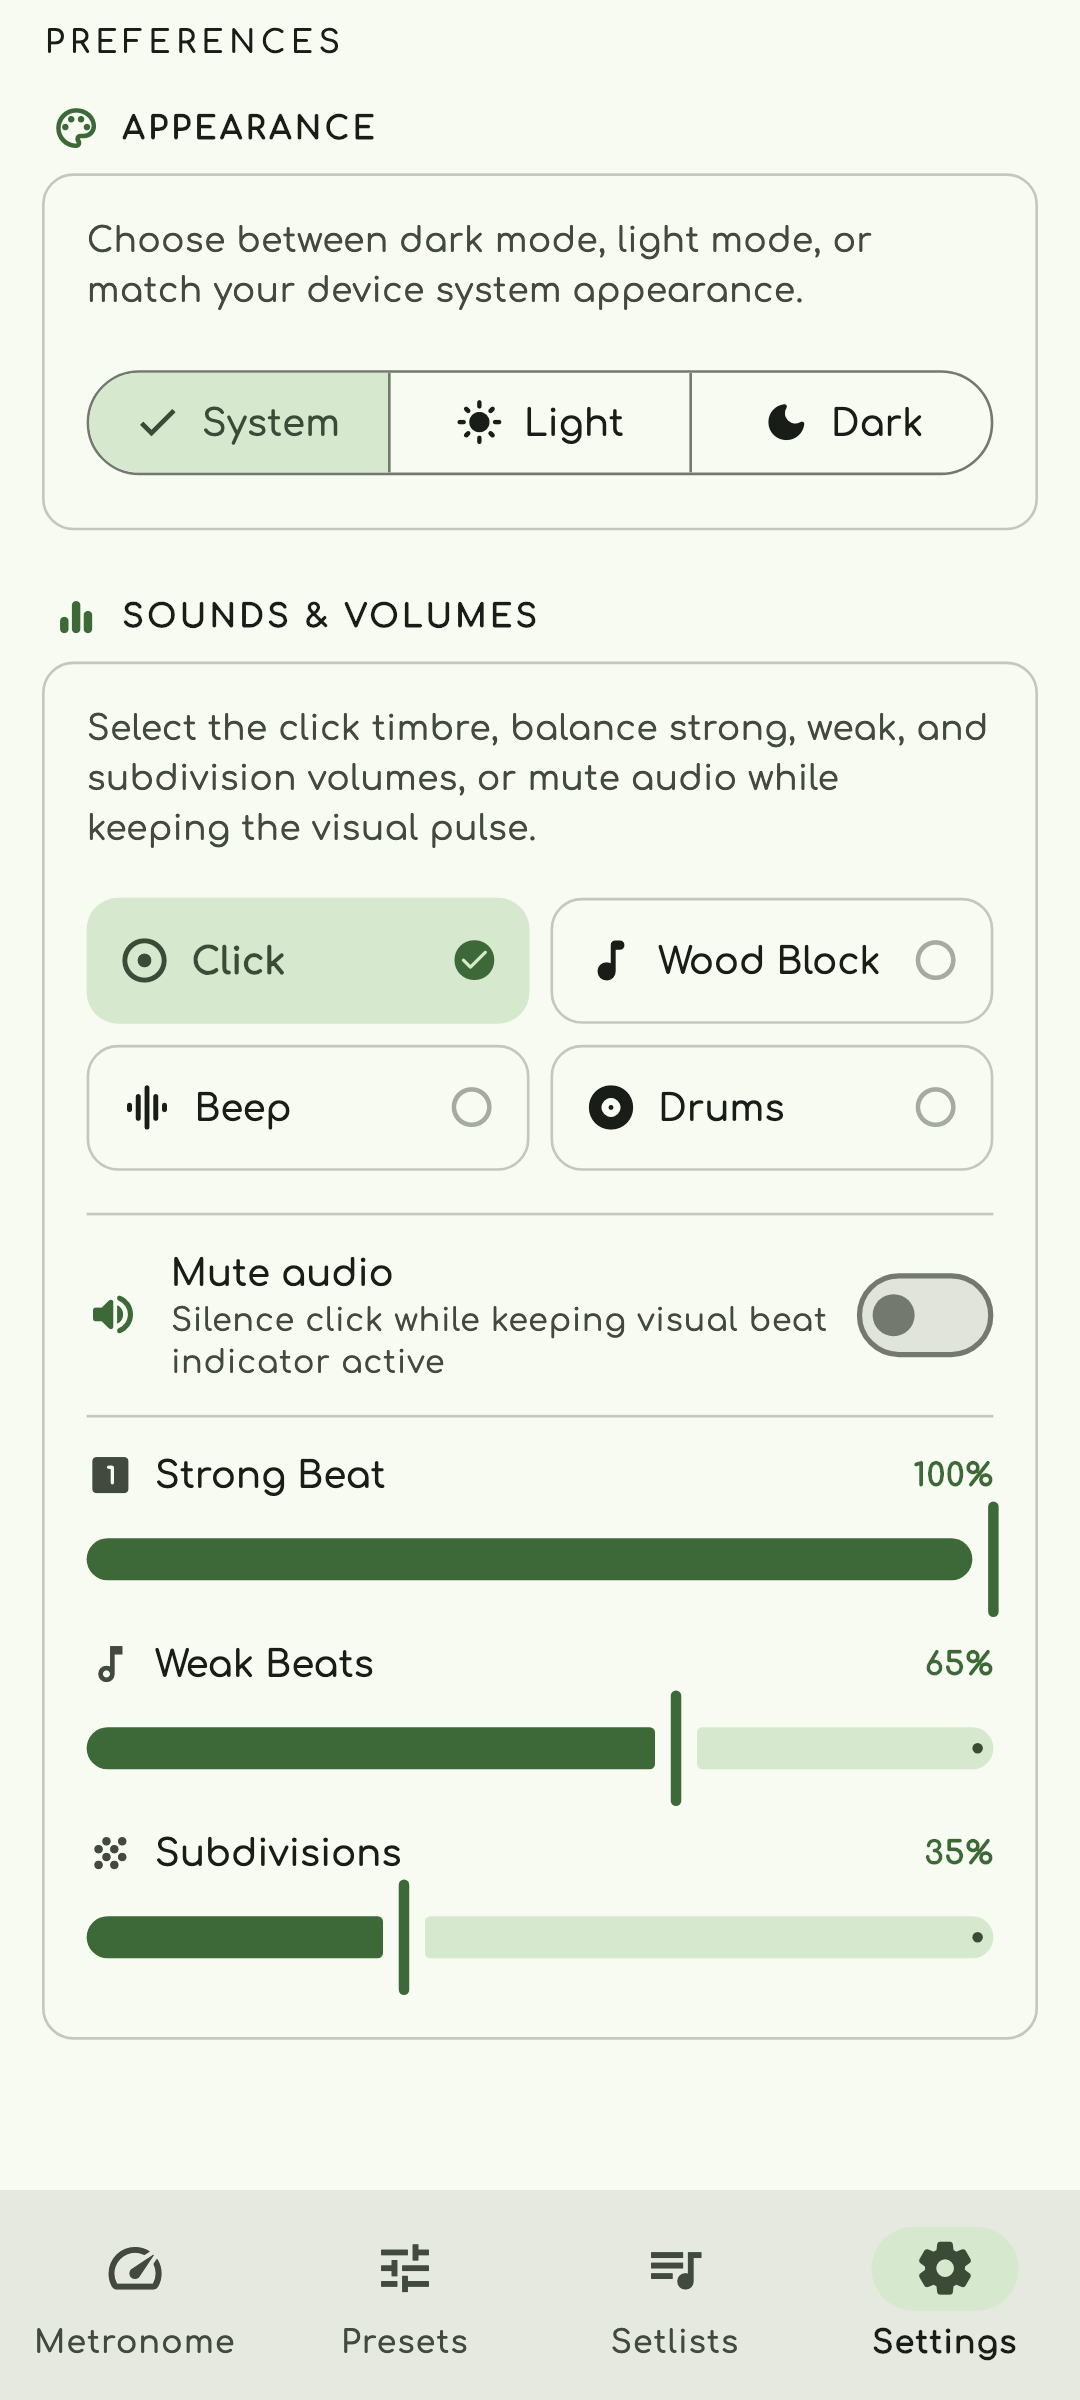
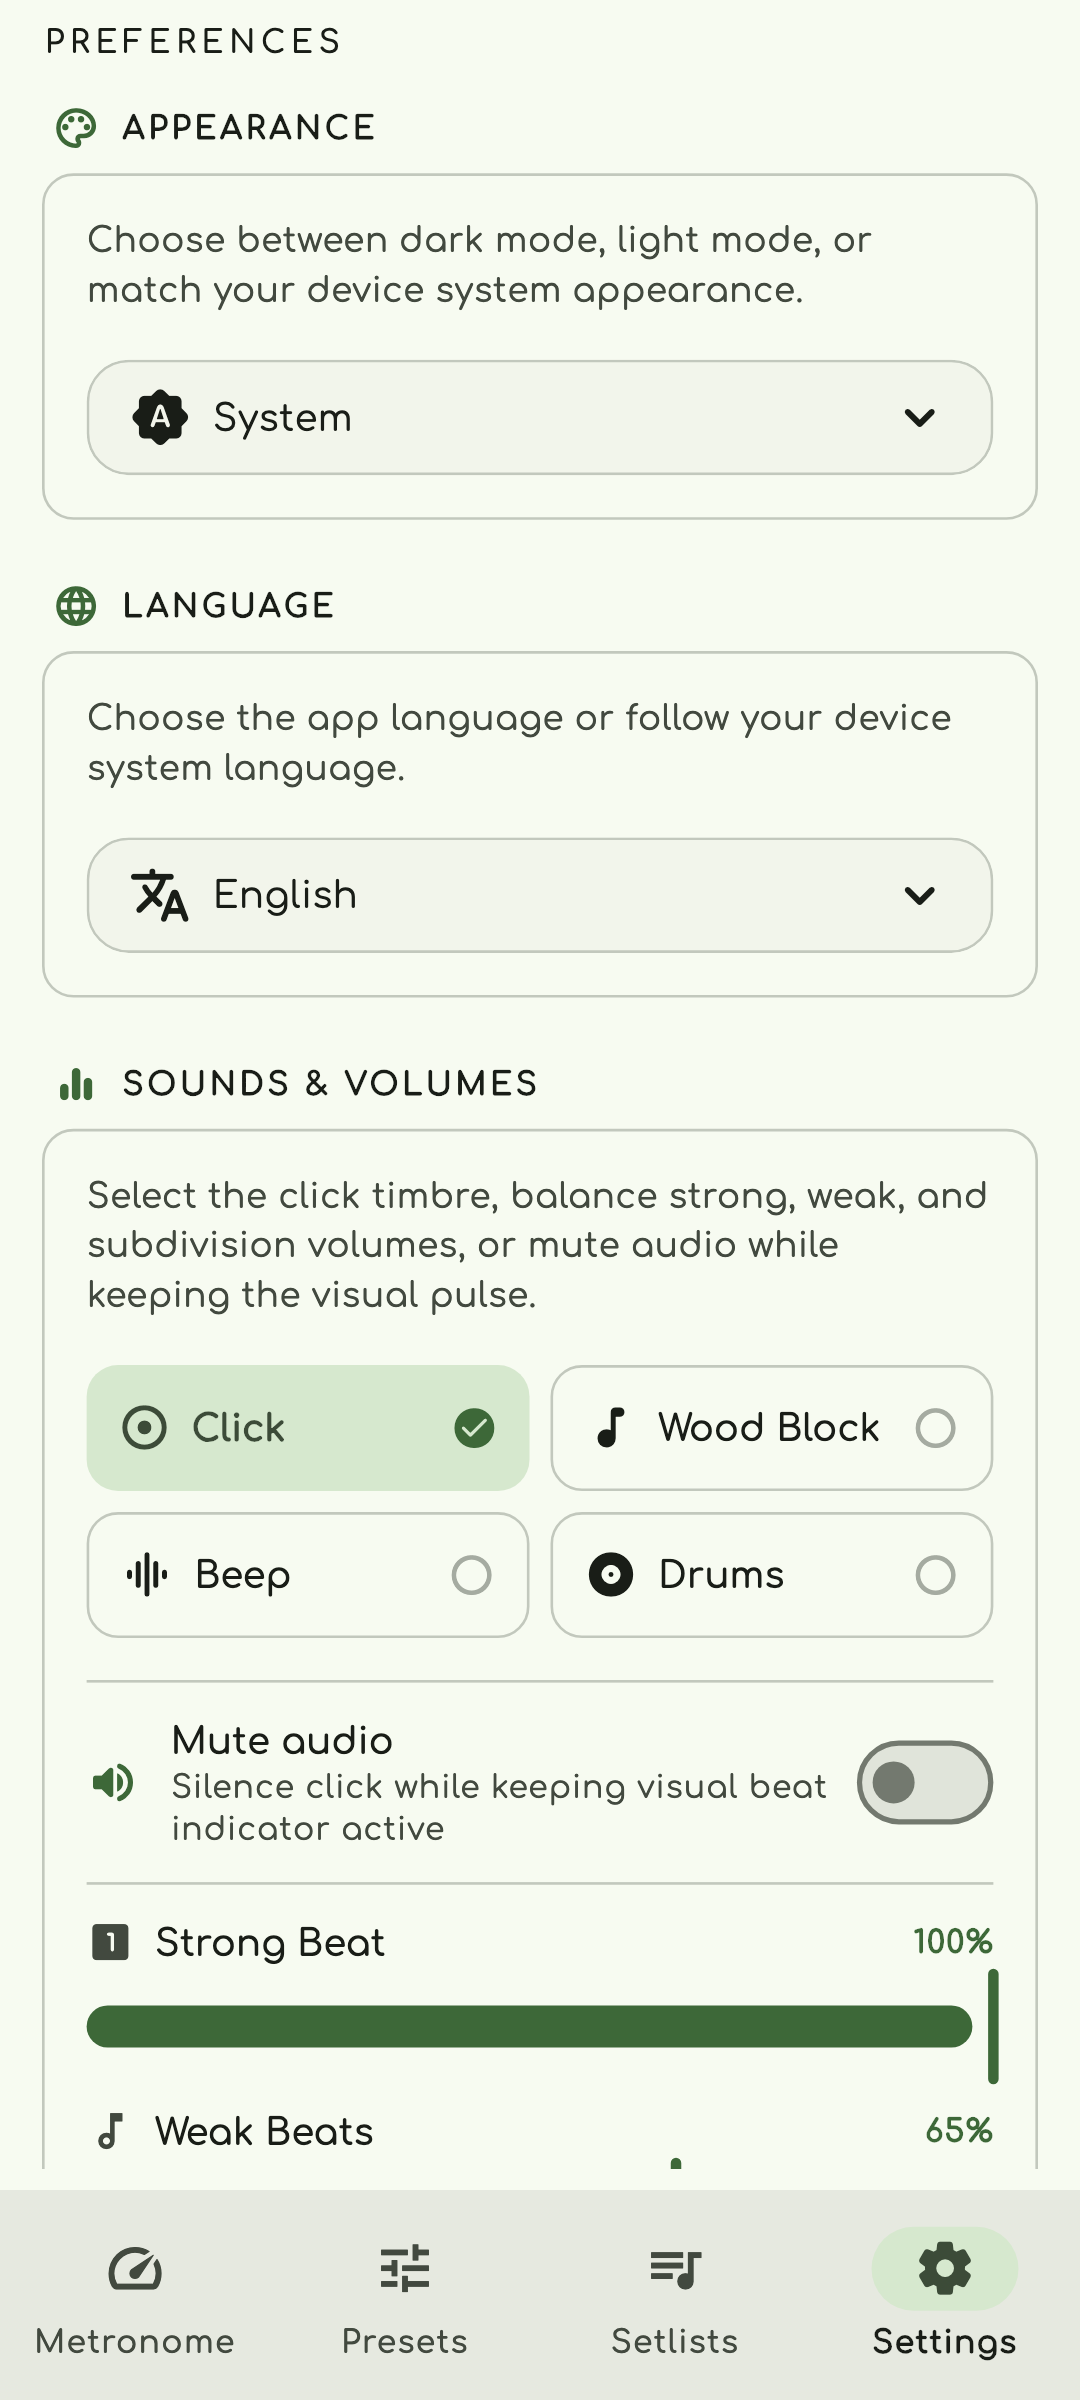
ci: update ci and fastlane config

diff --git a/test/screenshots/play_store_screenshots_test.dart b/test/screenshots/play_store_screenshots_test.dart
@@ -8,6 +8,7 @@ import 'package:flutter_test/flutter_test.dart';
 import 'package:google_fonts/google_fonts.dart';
 import 'package:material_ui/material_ui.dart';
 import 'package:metronome/data/services/simulated_metronome_engine.dart';
+import 'package:metronome/domain/models/app_language.dart';
 import 'package:metronome/main.dart';
 import 'package:shared_preferences/shared_preferences.dart';
 
@@ -89,76 +90,93 @@ Future<void> _loadTestFonts() async {
   }
 }
 
+Future<void> _capturePhoneScreenshotsForLocale(
+  WidgetTester tester, {
+  required AppLanguage language,
+  required String storeLocale,
+}) async {
+  SharedPreferences.setMockInitialValues({'app_language': language.code});
+  final preferences = await SharedPreferences.getInstance();
+  final simulatedEngine = SimulatedMetronomeEngine();
+
+  // Pixel phone resolution: ~411x914 logical * 2.625 DPR = 1080x2400 px
+  tester.view.physicalSize = const Size(1080, 2400);
+  tester.view.devicePixelRatio = 2.625;
+  addTearDown(() {
+    tester.view.resetPhysicalSize();
+    tester.view.resetDevicePixelRatio();
+  });
+
+  await tester.pumpWidget(
+    MetronomeApp(
+      key: ValueKey('screenshot_app_${language.code}'),
+      engineOverride: simulatedEngine,
+      preferences: preferences,
+    ),
+  );
+  await tester.runAsync(() => GoogleFonts.pendingFonts());
+  await tester.pumpAndSettle();
+
+  final basePath =
+      '../../android/fastlane/metadata/android/$storeLocale/images/phoneScreenshots';
+
+  // 1. Metronome main screen
+  await expectLater(
+    find.byType(MetronomeApp),
+    matchesGoldenFile('$basePath/01_metronome.png'),
+  );
+
+  // 2. Presets screen
+  await tester.tap(find.byKey(const Key('nav_destination_presets')));
+  await tester.pumpAndSettle();
+  await tester.runAsync(() => GoogleFonts.pendingFonts());
+  await tester.pumpAndSettle();
+  await expectLater(
+    find.byType(MetronomeApp),
+    matchesGoldenFile('$basePath/02_presets.png'),
+  );
+
+  // 3. Setlists screen
+  await tester.tap(find.byKey(const Key('nav_destination_setlists')));
+  await tester.pumpAndSettle();
+  await tester.runAsync(() => GoogleFonts.pendingFonts());
+  await tester.pumpAndSettle();
+  await expectLater(
+    find.byType(MetronomeApp),
+    matchesGoldenFile('$basePath/03_setlists.png'),
+  );
+
+  // 4. Preferences screen
+  await tester.tap(find.byKey(const Key('nav_destination_settings')));
+  await tester.pumpAndSettle();
+  await tester.runAsync(() => GoogleFonts.pendingFonts());
+  await tester.pumpAndSettle();
+  await expectLater(
+    find.byType(MetronomeApp),
+    matchesGoldenFile('$basePath/04_preferences.png'),
+  );
+}
+
 void main() {
   setUpAll(() async {
     GoogleFonts.config.allowRuntimeFetching = false;
   });
 
-  testWidgets('Generate Play Store phone screenshots', (
-    WidgetTester tester,
-  ) async {
-    await tester.runAsync(_loadTestFonts);
+  const screenshotLocales = <(AppLanguage, String)>[
+    (AppLanguage.english, 'en-US'),
+    (AppLanguage.portuguese, 'pt-BR'),
+  ];
 
-    SharedPreferences.setMockInitialValues({});
-    final preferences = await SharedPreferences.getInstance();
-    final simulatedEngine = SimulatedMetronomeEngine();
-
-    // Pixel phone resolution: ~411x914 logical * 2.625 DPR = 1080x2400 px
-    tester.view.physicalSize = const Size(1080, 2400);
-    tester.view.devicePixelRatio = 2.625;
-    addTearDown(() {
-      tester.view.resetPhysicalSize();
-      tester.view.resetDevicePixelRatio();
+  for (final (language, storeLocale) in screenshotLocales) {
+    testWidgets('Generate Play Store phone screenshots ($storeLocale)', (
+      WidgetTester tester,
+    ) async {
+      await tester.runAsync(_loadTestFonts);
+      await _capturePhoneScreenshotsForLocale(
+        tester,
+        language: language,
+        storeLocale: storeLocale,
+      );
     });
-
-    await tester.pumpWidget(
-      MetronomeApp(engineOverride: simulatedEngine, preferences: preferences),
-    );
-    await tester.runAsync(() => GoogleFonts.pendingFonts());
-    await tester.pumpAndSettle();
-
-    // 1. Metronome main screen
-    await expectLater(
-      find.byType(MetronomeApp),
-      matchesGoldenFile(
-        '../../android/fastlane/metadata/android/en-US/images/phoneScreenshots/01_metronome.png',
-      ),
-    );
-
-    // 2. Presets screen
-    await tester.tap(find.byKey(const Key('nav_destination_presets')));
-    await tester.pumpAndSettle();
-    await tester.runAsync(() => GoogleFonts.pendingFonts());
-    await tester.pumpAndSettle();
-    await expectLater(
-      find.byType(MetronomeApp),
-      matchesGoldenFile(
-        '../../android/fastlane/metadata/android/en-US/images/phoneScreenshots/02_presets.png',
-      ),
-    );
-
-    // 3. Setlists screen
-    await tester.tap(find.byKey(const Key('nav_destination_setlists')));
-    await tester.pumpAndSettle();
-    await tester.runAsync(() => GoogleFonts.pendingFonts());
-    await tester.pumpAndSettle();
-    await expectLater(
-      find.byType(MetronomeApp),
-      matchesGoldenFile(
-        '../../android/fastlane/metadata/android/en-US/images/phoneScreenshots/03_setlists.png',
-      ),
-    );
-
-    // 4. Preferences screen
-    await tester.tap(find.byKey(const Key('nav_destination_settings')));
-    await tester.pumpAndSettle();
-    await tester.runAsync(() => GoogleFonts.pendingFonts());
-    await tester.pumpAndSettle();
-    await expectLater(
-      find.byType(MetronomeApp),
-      matchesGoldenFile(
-        '../../android/fastlane/metadata/android/en-US/images/phoneScreenshots/04_preferences.png',
-      ),
-    );
-  });
+  }
 }

diff --git a/test/ui/core/l10n/l10n_extensions_test.dart b/test/ui/core/l10n/l10n_extensions_test.dart
@@ -49,8 +49,7 @@ void main() {
       check(MetronomeSound.drums.localizedLabel(en)).equals('Drums');
 
       check(MetronomeSound.click.localizedLabel(pt)).equals('Click');
-      check(MetronomeSound.woodBlock.localizedLabel(pt))
-          .equals('Bloco de Madeira');
+      check(MetronomeSound.woodBlock.localizedLabel(pt)).equals('Madeira');
       check(MetronomeSound.beep.localizedLabel(pt)).equals('Bipe');
       check(MetronomeSound.drums.localizedLabel(pt)).equals('Bateria');
 

diff --git a/lib/l10n/app_localizations_pt.dart b/lib/l10n/app_localizations_pt.dart
@@ -78,7 +78,7 @@ class AppLocalizationsPt extends AppLocalizations {
   String get soundClickDescription => 'Clique nítido de precisão de estúdio';
 
   @override
-  String get soundWoodBlockLabel => 'Bloco de Madeira';
+  String get soundWoodBlockLabel => 'Madeira';
 
   @override
   String get soundWoodBlockDescription =>
